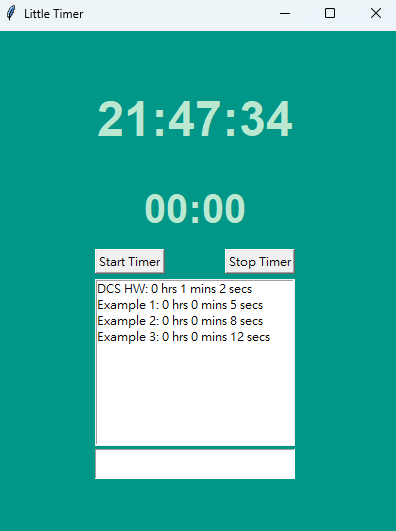
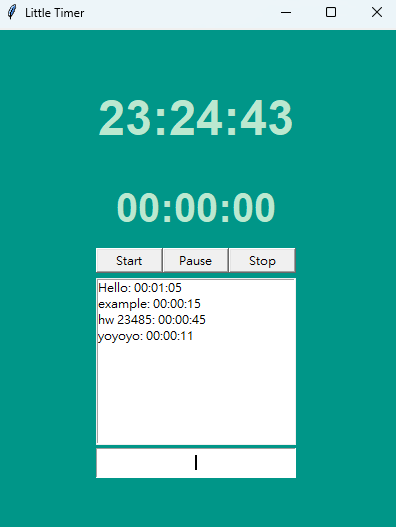
Add pause button & early return on some functions

diff --git a/timer.py b/timer.py
@@ -11,6 +11,8 @@ class Timer:
     def __init__(self):
         self.timer_start_time = None
         self.timer_records = []
+        self.timer_pause_time = None
+        self.timer_paused = False  # New attribute
         self.setup_gui()
         
     def setup_gui(self):
@@ -27,14 +29,17 @@ class Timer:
         self.time_label = tk.Label(self.window, font=self.font_1, fg=FG_COLOR, bg=BG_COLOR, width=200, height=100, anchor="center")
         self.time_label.place(x=100,y=40,width=200,height=100)
         # Timer label
-        self.timer_label = tk.Label(self.window, font=self.font_2, text="00:00", fg=FG_COLOR, bg=BG_COLOR, width=200, height=80, anchor="center")
+        self.timer_label = tk.Label(self.window, font=self.font_2, text="00:00:00", fg=FG_COLOR, bg=BG_COLOR, width=200, height=80, anchor="center")
         self.timer_label.place(x=100,y=140,width=200,height=80)
         # Start button
-        start_button = tk.Button(self.window, text="Start Timer", command=self.start_timer)
-        start_button.place(x=100,y=220,width=70,height=25)
+        start_button = tk.Button(self.window, text="Start", command=self.start_timer)
+        start_button.place(x=100,y=220,width=67,height=25)
         # Stop button
-        stop_button = tk.Button(self.window, text="Stop Timer", command=self.stop_timer)
-        stop_button.place(x=230,y=220,width=70,height=25)
+        stop_button = tk.Button(self.window, text="Stop", command=self.stop_timer)
+        stop_button.place(x=233,y=220,width=67,height=25)
+        # pause button
+        self.pause_button = tk.Button(self.window, text="Pause", command=self.pause_timer)  # New button
+        self.pause_button.place(x=167, y=220, width=66, height=25)
         # Task entry
         self.task_entry = tk.Entry(self.window, textvariable=self.task_name, justify="center")
         self.task_entry.place(x=100,y=420,width=200,height=30)
@@ -47,29 +52,43 @@ class Timer:
         current_time = time.strftime("%H:%M:%S")
         self.time_label.config(text=current_time)
 
-        if self.timer_start_time:
+        if self.timer_start_time and not self.timer_paused:
             elapsed_time = time.time() - self.timer_start_time
-            minutes, seconds = divmod(int(elapsed_time), 60)
-            self.timer_label.config(text=f"{minutes:02}:{seconds:02}")
+            hours, remainder = divmod(elapsed_time, 3600)
+            minutes, seconds = divmod(remainder, 60)
+            self.timer_label.config(text=f"{hours:02.0f}:{minutes:02.0f}:{seconds:02.0f}")
 
         self.window.after(1000, self.update_labels)
 
+    def pause_timer(self):  # New method
+        if self.timer_start_time is not None:
+            if self.timer_paused:
+                self.timer_start_time += time.time() - self.timer_pause_time
+                self.timer_pause_time = None
+                self.timer_paused = False
+                self.pause_button.config(text="Pause")
+            else:
+                self.timer_pause_time = time.time()
+                self.timer_paused = True
+                self.pause_button.config(text="Resume")
+    
     def start_timer(self):
+        if self.timer_paused:
+            self.pause_timer()
         self.timer_start_time = time.time()
         self.current_task = [time.strftime("%Y-%m-%d %H:%M")]
 
     def stop_timer(self):
-        elapsed_time = float(time.time() - self.timer_start_time) # Duration in seconds
-        hours, remainder = divmod(elapsed_time, 3600)
-        minutes, seconds = divmod(remainder, 60)
-        duration = f"{int(hours)} hrs {int(minutes)} mins {int(seconds)} secs" # Duration in hours, minutes, seconds
-        self.listbox.insert(tk.END, f"{self.task_name.get()}: {duration}")
+        if self.timer_start_time is None: # Timer not running
+            return
+        duration = self.timer_label.cget("text") # Duration in seconds
         task_name = self.task_name.get() if self.task_name.get() else "Task"
+        self.listbox.insert(tk.END, f"{task_name}: {duration}")
         self.current_task.extend([time.strftime("%Y-%m-%d %H:%M"), duration, task_name])
         self.timer_records.append(self.current_task)
         self.timer_start_time = None
         self.task_entry.delete(0, tk.END)
-        self.timer_label.config(text="00:00")
+        self.timer_label.config(text="00:00:00")
 
     def on_close(self):
         mode = 'w' if not os.path.isfile('timer_records.csv') else 'a'
